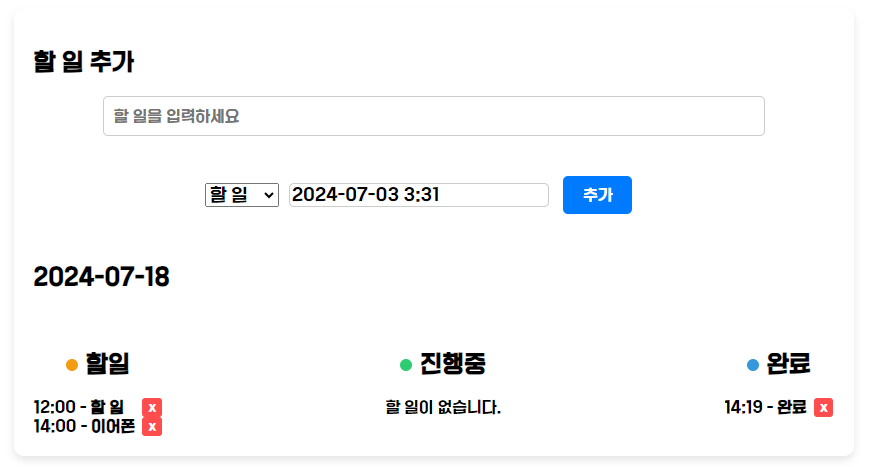
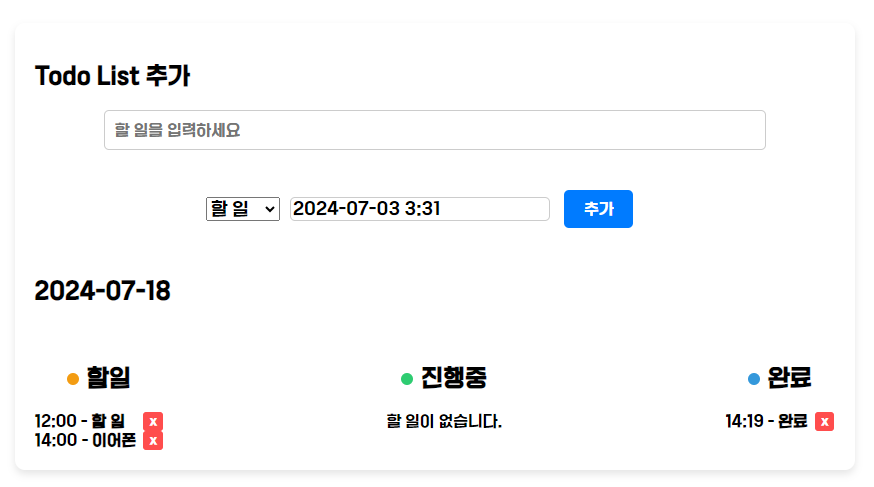
이미지 변경/ addTodoList 이름 변경

diff --git a/src/App.jsx b/src/App.jsx
@@ -47,7 +47,7 @@ function App() {
       <div className="todo-container">
         <div className="app-content">
           <div className="add-todo-container">
-            <h2>할 일 추가</h2>
+            <h2>Todo List 추가</h2>
             <AddTodo onAddTodo={handleAddTodo} />
           </div>
           <h2>{format(selectedDate, "yyyy-MM-dd")}</h2>
